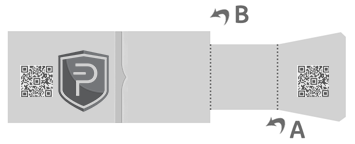
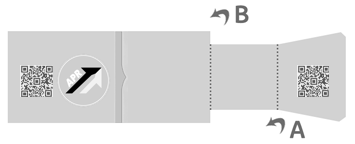
updated images, removed denomination

Changed region(s): [[0.1549, 0.3333, 0.3099, 0.7778]]

diff --git a/generate-wallet.html b/generate-wallet.html
@@ -10617,43 +10617,7 @@ Bitcoin.Util = {
 				</div>
 
 				<div id="backTextControl" style="font-size: 12px;">
-                   <div style="float: left; width: 375px; text-align: right;">
-                  Denomination: 
-                  <select id="backDenominationSelect" onChange="setDenomination(this.value);">
-                    <option value="">*** None ***</option>
-                    <option value="10000 PIV">10000 PIV</option>
-                    <option value="5000 PIV">5000 PIV</option>
-                    <option value="2000 PIV">2000 PIV</option>
-                    <option value="1000 PIV">1000 PIV</option>
-                    <option value="50000 mPIV">50000 mPIV</option>
-                    <option value="10000 mPIV">10000 mPIV</option>
-                    <option value="5000 mPIV">5000 mPIV</option>
-                    <option value="1000 mPIV">1000 mPIV</option>
-                    <option value="500 mPIV">500 mPIV</option>
-                    <option value="100 mPIV">100 mPIV</option>
-                    <option value="50000 yPIV">50000 yPIV</option>
-                    <option value="10000 yPIV">10000 yPIV</option>
-                    <option value="5000 yPIV">5000 yPIV</option>
-                    <option value="1000 yPIV">1000 yPIV</option>
-                    <option value="500 yPIV">500 yPIV</option>
-                    <option value="100 yPIV">100 yPIV</option>
-                    <option value="50 yPIV">50 yPIV</option>
-                    <option value="20 yPIV">20 yPIV</option>
-                    <option value="10 yPIV">10 yPIV</option>
-                    <option value="5 yPIV">5 yPIV</option>
-                    <option value="1 yPIV">1 yPIV</option>
-                    <option value="other">Other...</option>
-                  </select>
-                  <div id="backDenominationOther" style="display: none;">
-                  <input id="backDenominationOtherAmount" maxlength="5" size="6" value="1" onChange="setDenomination('other');">
-                  <select id="backDenominationOtherUnit" onChange="setDenomination('other');">
-                    <option value="PIV">PIV</option>
-                  	<option value="yPIV">yPIV</option>
-                  	<option value="&mu;BTC">&mu;PIV</option>
-                  	<option value="mPIV">mPIV</option>
-                  </select>
-                  </div><!-- end backDenominationOther -->
-                              </div>
+                   <div style="float: left; width: 375px; text-align: right;"></div>
                               
                         <div style="float: left; margin: 0 0 0 80px;">
                        Message: 
@@ -10704,7 +10668,7 @@ Bitcoin.Util = {
                   </div><!-- end backLongText -->
                 </div><!-- end backText -->
 
-				<img id="backsvg1" class="backsvg" src="./images/back-300dpi-PIVX.jpg">
+				<img id="backsvg1" class="backsvg" src="./images/back-300dpi-APR.png">
 			</div><!-- end backarea -->
 
 
@@ -11939,7 +11903,7 @@ ninja.publicKey = {
 			// so the check is now only for undefined to use that version.
 
 			if (window.designChoice == 'default') { // if we are not loading up a special JPG-based design, render the canvas
-				document.getElementById("papersvg1").src = PaperWallet.draw.frontImage(bitcoinAddress, drawOpts);
+				document.getElementById("papersvg1").src =  './images/front-300dpi-APR.png';
 			}
 			// CODE to modify SVG DOM elements
 			//var paperSvg = document.getElementById("papersvg" + idPostFix);
@@ -13452,8 +13416,8 @@ function setDesign (whichDesign, isOnLoad, whichLanguage) {
 	// now deal with JPG-style backgrounds, and apply instructions to default design
 
 	if (whichDesign == 'default') {
-		var myFront = './images/front-300dpi-PIVX.png';
-		var myBack = './images/back-300dpi-PIVX.jpg';
+		var myFront = './images/front-300dpi-APR.png';
+		var myBack = './images/back-300dpi-APR.png';
 		var myPreview = './images/finished-sample-sealed.jpg';
 		// setup proper back text translation & controls
 		document.getElementById('backTextControl').style.display='block';
